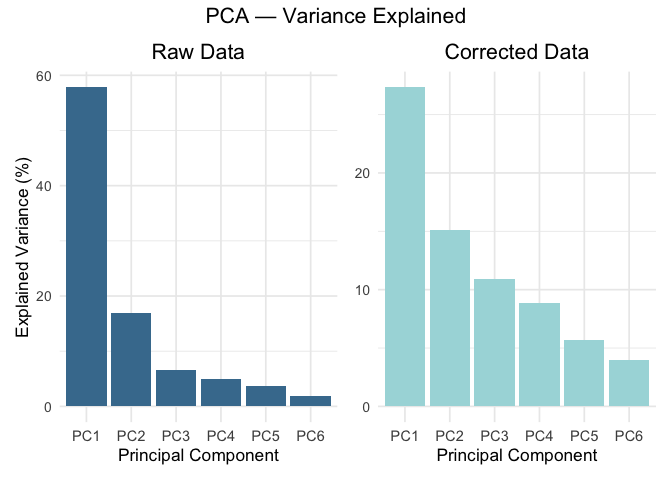
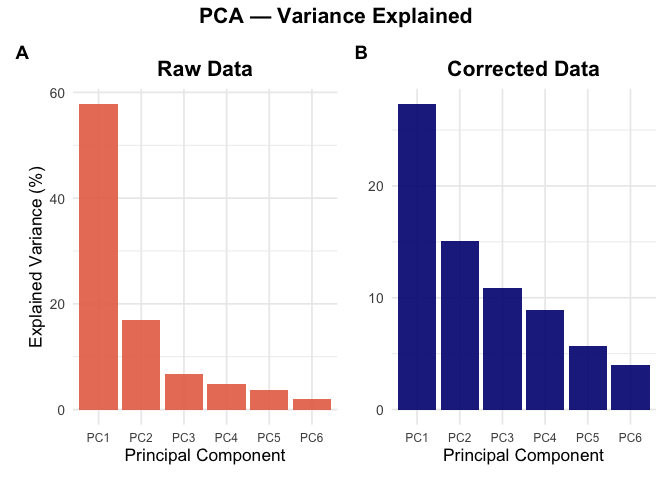
news

diff --git a/docs/new_method/stability_analysis.md b/docs/new_method/stability_analysis.md
@@ -173,28 +173,35 @@ var_df_raw <- data.frame(PC = paste0("PC", 1:6),
 
 # Plots
 p_raw <- ggplot(var_df_raw, aes(x = PC, y = Variance)) +
-  geom_col(fill = "#457B9D") +
+  geom_col(fill = "#E76F51", alpha = 0.9) +
   theme_minimal(base_size = 13) +
   labs(title = "Raw Data",
-       x = "Principal Component", y = "Explained Variance (%)") +
-  theme(axis.text.x = element_text(size = 11),
+       x = "Principal Component", 
+       y = "Explained Variance (%)") +
+  theme(axis.text.x = element_text(size = 9),
         plot.title = element_text(hjust = 0.5))
 
 p_corr <- ggplot(var_df_corr, aes(x = PC, y = Variance)) +
-  geom_col(fill = "#A8DADC") +
+  geom_col(fill = "navy", alpha = 0.9) +
   theme_minimal(base_size = 13) +
   labs(title = "Corrected Data",
-       x = "Principal Component", y = NULL) +
-  theme(axis.text.x = element_text(size = 11),
+       x = "Principal Component", 
+       y = NULL) +
+  theme(axis.text.x = element_text(size = 9),
         axis.title.y = element_blank(),
         plot.title = element_text(hjust = 0.5))
 
-# Combine with generic title
+# Combine with panel labels and bold title
 final_plot <- (p_raw | p_corr) +
-  plot_annotation(title = "PCA — Variance Explained") &
-  theme(plot.title = element_text(size = 16, hjust = 0.5))
+  plot_annotation(
+    title = "PCA — Variance Explained",
+    tag_levels = "A"
+  ) &
+  theme(
+    plot.title = element_text(size = 16, hjust = 0.5, face = "bold"),
+    plot.tag = element_text(size = 14, face = "bold")
+  )
 
-# Show in Rmd
 final_plot
 ```
 
